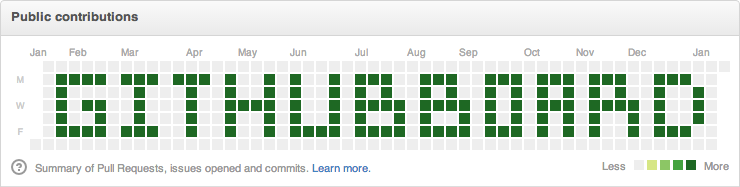
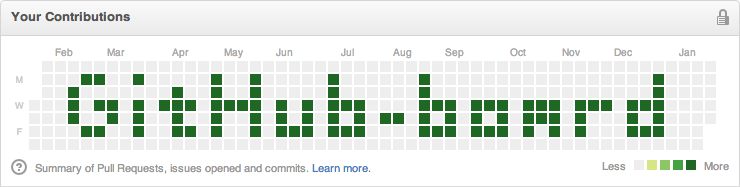
Update example

diff --git a/github_board.py b/github_board.py
@@ -2,11 +2,11 @@
 # -*- coding: utf-8 -*-
 """
  ░░░░░░░░░░░░░░░░░░░░░░░░░░░░░░░░░░░░░░░░░░░░░░░░░░░░░
- ░████░███░███░█░░█░█░░█░███░░███░░███░███░███░░███░░
- ░█░░░░░█░░░█░░█░░█░█░░█░█░█░░█░█░░█░█░█░█░█░█░░█░░█░
- ░█░██░░█░░░█░░████░█░░█░████░████░█░█░███░████░█░░█░
- ░█░░█░░█░░░█░░█░░█░█░░█░█░░█░█░░█░█░█░█░█░█░░█░█░░█░
- ░████░███░░█░░█░░█░████░████░████░███░█░█░█░░█░███░░
+ ░░░██░░█░░░░░█░░█░░░░░█░░░░░░█░░░░░░░░░░░░░░░░░█░░░░
+ ░░█░░░░░░░█░░█░░█░░░░░█░░░░░░█░░░░░░░░░░░░░░░░░█░░░░
+ ░░█░██░█░███░████░█░█░███░░░░███░███░███░███░███░░░░
+ ░░█░░█░█░░█░░█░░█░█░█░█░█░██░█░█░█░█░███░█░░░█░█░░░░
+ ░░░██░░█░░██░█░░█░███░███░░░░███░███░█░█░█░░░███░░░░
 ░░░░░░░░░░░░░░░░░░░░░░░░░░░░░░░░░░░░░░░░░░░░░░░░░░░░░
 """
 

diff --git a/README.md b/README.md
@@ -1,4 +1,6 @@
 # github-board
+[![Build Status](https://travis-ci.org/bayandin/github-board.png)](https://travis-ci.org/bayandin/github-board)
+
 ![Example](https://raw.github.com/bayandin/github-board/master/example.png)
 
 ### Usage
